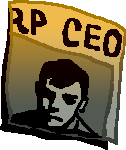
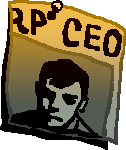
Edges shown as owned in private view and have different art

Changed region(s): [[0.3571, 0.0, 0.5, 0.1333]]

diff --git a/UnityProject/Assets/Graph/Highlightable.cs b/UnityProject/Assets/Graph/Highlightable.cs
@@ -1,21 +1,23 @@
 using UnityEngine;
 using System.Collections;
 using System;
+using Assets.Player;
 
-public class Highlightable : MonoBehaviour {
+public abstract class Highlightable : MonoBehaviour {
 	
-	public Sprite highlightSprite;
+	public Sprite normalSprite, highlightSprite, ownedNormalSprite, ownedHighlightSprite;
     public delegate void OnClickHandler();
     public event OnClickHandler OnClicked;
 
-	protected Sprite normalSprite;
 	private SpriteRenderer spriteRenderer;
 	private bool isHighlighted = false;
+	private Sprite curNormal, curHighlight;
 
 	// Use this for initialization
 	protected virtual void Start () {
-		spriteRenderer = this.gameObject.GetComponent<SpriteRenderer>();
-		normalSprite = spriteRenderer.sprite;
+		spriteRenderer = gameObject.GetComponent<SpriteRenderer>();
+		VisibilityController.instance.VisibilityChanged += new VisibilityController.VisibilityChangeHandler(updateVisibility);
+		updateSprites();
 	}
 	
 	// Update is called once per frame
@@ -24,31 +26,35 @@ public class Highlightable : MonoBehaviour {
 	}
 
 	public void setNormalSprite(Sprite newNormal) {
-		normalSprite = newNormal;
-		if (!isHighlighted) {
-			setUnhighlighted();
-		}
+		curNormal = newNormal;
+		setHighlighted(isHighlighted);
 	}
 
 	public void setHighlightedSprite(Sprite newHighlight) {
-		highlightSprite = newHighlight;
-		if (isHighlighted) {
-			setHighlighted();
-		}
+		curHighlight = newHighlight;
+		setHighlighted(isHighlighted);
 	}
 	
-	public void setHighlighted() {
-		isHighlighted = true;
-		spriteRenderer.sprite = highlightSprite;
-	}
-	
-	public void setUnhighlighted() {
-		isHighlighted = false;
-		spriteRenderer.sprite = normalSprite;
+	public void setHighlighted(bool isHighlighted) {
+		this.isHighlighted = isHighlighted;
+		spriteRenderer.sprite = isHighlighted ? curHighlight : curNormal;
 	}
 
     void OnMouseUpAsButton()
     {
         if (OnClicked != null) OnClicked();
     }
+
+	
+	public void updateSprites() {
+		updateVisibility(VisibilityController.instance.visibility);
+	}
+	
+	private void updateVisibility(VisibilityController.Visibility vis) {
+		bool owned = viewAsOwned(vis);
+		setNormalSprite(owned ? ownedNormalSprite : normalSprite);
+		setHighlightedSprite(owned ? ownedHighlightSprite : highlightSprite);
+	}
+
+	public abstract bool viewAsOwned(VisibilityController.Visibility visibility);
 }

diff --git a/UnityProject/Assets/Graph/Nodes/NodeData.cs b/UnityProject/Assets/Graph/Nodes/NodeData.cs
@@ -4,10 +4,7 @@ using Assets.Player;
 
 public class NodeData : Highlightable {
 
-	public Sprite playerOwnedNormal, playerOwnedHighlight;
 	public PlayerData startingOwner;
-
-	private Sprite unownedNormal, unownedHighlight;
 
 	private PlayerData owner;
 	public PlayerData Owner {
@@ -27,10 +24,7 @@ public class NodeData : Highlightable {
 	// Use this for initialization
 	protected override void Start () {
 		base.Start();
-		unownedNormal = normalSprite;
-		unownedHighlight = highlightSprite;
 		Owner = startingOwner;
-		VisibilityController.instance.VisibilityChanged += new VisibilityController.VisibilityChangeHandler(updateVisibility);
 	}
 	
 	// Update is called once per frame
@@ -45,15 +39,28 @@ public class NodeData : Highlightable {
 		}
 	}
 
-	public void updateSprites() {
-		updateVisibility(VisibilityController.instance.visibility);
+	public int getAttack(DominationType type) {
+		AttackSkill[] skills = gameObject.GetComponents<AttackSkill>();
+		foreach (AttackSkill a in skills) {
+			if (a.type == type) {
+				return a.value;
+			}
+		}
+		return 0;
 	}
 
-	private void updateVisibility(VisibilityController.Visibility vis) {
+	public int getDefense(DominationType type) {
+		DefenseSkill[] skills = gameObject.GetComponents<DefenseSkill>();
+		foreach (DefenseSkill d in skills) {
+			if (d.type == type) {
+				return d.value;
+			}
+		}
+		return 0;
+	}
+
+	override public bool viewAsOwned(VisibilityController.Visibility vis) {
 		bool isPrivate = vis == VisibilityController.Visibility.Private;
-		bool viewAsOwned = isPrivate && owner == TurnController.instance.CurrentPlayer;
-		
-		setNormalSprite(viewAsOwned ? playerOwnedNormal : unownedNormal);
-		setHighlightedSprite(viewAsOwned ? playerOwnedHighlight : unownedHighlight);
+		return isPrivate && owner == TurnController.instance.CurrentPlayer;
 	}
 }

diff --git a/UnityProject/Assets/Player/ActionController.cs b/UnityProject/Assets/Player/ActionController.cs
@@ -26,7 +26,7 @@ namespace Assets.Player
             {
                 List<Highlightable> possibleTargets = selected.getPossibleTargets();
                 //highlight the possible targets
-                possibleTargets.ForEach((x) => x.setHighlighted());
+                possibleTargets.ForEach((x) => x.setHighlighted(true));
 
                 //attach event handlers to the possible targets so they're selected when they're clicked
                 possibleTargets.ForEach((x) => { clickHandlers[x] = () => scheduleAction(selected, x); x.OnClicked += clickHandlers[x]; });
@@ -46,7 +46,7 @@ namespace Assets.Player
             //the other targets should not be highlighted now
             foreach (Highlightable noLongerATarget in toSchedule.getPossibleTargets())
             {
-                noLongerATarget.setUnhighlighted();
+                noLongerATarget.setHighlighted(false);
                 noLongerATarget.OnClicked -= clickHandlers[noLongerATarget];
             }
 
@@ -73,7 +73,7 @@ namespace Assets.Player
 				// Clicked on something else with action selected -- cancel selection
 				foreach (Highlightable noLongerATarget in selected.getPossibleTargets())
 				{
-					noLongerATarget.setUnhighlighted();
+					noLongerATarget.setHighlighted(false);
 					noLongerATarget.OnClicked -= clickHandlers[noLongerATarget];
 				}
 				

diff --git a/UnityProject/Assets/Graph/Nodes/AttackAction.cs b/UnityProject/Assets/Graph/Nodes/AttackAction.cs
@@ -49,36 +49,21 @@ public class AttackAction : Action {
 		connection.triggerEdge(0.5f);
 
 		// Find attacker attack score and defender defense score
-		DefenseSkill[] targetDefenses = target.gameObject.GetComponents<DefenseSkill>();
-		DefenseSkill targetDefense = null;
-		foreach (DefenseSkill d in targetDefenses) {
-			if (d.type == attackType) {
-				targetDefense = d;
-				break;
-			}
-		}
-
-		AttackSkill[] attacks = gameObject.GetComponents<AttackSkill>();
-		AttackSkill attack = null;
-		foreach (AttackSkill a in attacks) {
-			if (a.type == attackType) {
-				attack = a;
-				break;
-			}
-		}
+		int targetDefense = otherNode.getDefense(attackType);
+		int attack = thisNode.getDefense(attackType);
 		
-		int min = targetDefense.value / 2;
-		int max = targetDefense.value * 2;
+		int min = targetDefense / 2;
+		int max = targetDefense * 2;
 
 		// Determine if node is captured
 		bool doCapture = false;
 
-		if (attack.value <= min) {
+		if (attack <= min) {
 			doCapture = false;
-		} else if (attack.value >= max) {
+		} else if (attack >= max) {
 			doCapture = true;
 		} else {
-			double probability = ((double) (attack.value - min)) / ((double) (max - min));
+			double probability = ((double) (attack - min)) / ((double) (max - min));
 			doCapture = gen.NextDouble() <= probability;
 		}
 		

diff --git a/UnityProject/Assets/Graph/Nodes/NodeStatMenu.cs b/UnityProject/Assets/Graph/Nodes/NodeStatMenu.cs
@@ -5,9 +5,11 @@ public class NodeStatMenu : MonoBehaviour {
 
 	public GameObject menuBackground;
 
+	private bool isShown = false;
+
 	// Use this for initialization
 	void Start () {
-	
+
 	}
 	
 	// Update is called once per frame
@@ -17,11 +19,27 @@ public class NodeStatMenu : MonoBehaviour {
 
 	void OnMouseEnter() {
 		if (menuBackground) {
-
+			// Display menu background
 		}
+		isShown = true;
 	}
 
 	void OnMouseExit() {
+		if (menuBackground) {
+			// Hide menu background
+		}
+		isShown = false;
+	}
 
+	void OnGUI() {
+		if (isShown) {
+			NodeData data = gameObject.GetComponent<NodeData>();
+			string text = "\t\tAttack\tDefense\n" +
+					"Bribe\t\t\t" + data.getAttack(DominationType.Bribe) + "\t" + data.getDefense(DominationType.Bribe) + "\n" +
+					"Blackmail\t" + data.getAttack(DominationType.Blackmail) + "\t" + data.getDefense(DominationType.Blackmail) + "\n" +
+					"Threaten\t" + data.getAttack(DominationType.Threaten) + "\t" + data.getDefense(DominationType.Threaten) + "\n";
+				
+			GUI.Label(new Rect(transform.position.x + 0.7f, transform.position.y + 0.2f, 300, 100), text);
+		}
 	}
 }

diff --git a/UnityProject/Assets/Graph/Edges/EdgeData.cs b/UnityProject/Assets/Graph/Edges/EdgeData.cs
@@ -68,5 +68,16 @@ public class EdgeData : Highlightable {
     void OnGUI()
     {
         if(displayVisibility) GUI.Label(new Rect(500, 0, 100, 20), "Visibility: " + Visibility);
-    }
+	}
+	
+	override public bool viewAsOwned(VisibilityController.Visibility vis) {
+		bool isPrivate = vis == VisibilityController.Visibility.Private;
+		bool isOwned = direction != EdgeDirection.Neutral;
+
+		if (isPrivate && isOwned) {
+			return nodeOne.GetComponent<NodeData>().Owner == TurnController.instance.CurrentPlayer;
+		}
+
+		return false;
+	}
 }

diff --git a/UnityProject/Assets/Graph/Nodes/NodeMenu.cs b/UnityProject/Assets/Graph/Nodes/NodeMenu.cs
@@ -28,7 +28,6 @@ public class NodeMenu : MonoBehaviour {
 			
 			GameObject realButton = (GameObject) Instantiate(button, transform.position + offset, Quaternion.identity);
 			realButton.transform.parent = this.gameObject.transform;
-			realButton.GetComponent<ActionButton>().setMenu(this);
 
             ActionController actionController = FindObjectOfType<ActionController>();
             realButton.GetComponent<ActionButton>().OnClick += () => actionController.selectAction(a);

diff --git a/UnityProject/Assets/Graph/Nodes/ActionButton.cs b/UnityProject/Assets/Graph/Nodes/ActionButton.cs
@@ -8,12 +8,6 @@ public class ActionButton : MonoBehaviour {
 
 	public Sprite normal, hover, selected;
 
-	private NodeMenu menu;
-
-	public void setMenu(NodeMenu menu) {
-		this.menu = menu;
-	}
-
 	// Use this for initialization
 	void Start () {
 		this.gameObject.GetComponent<SpriteRenderer>().sprite = normal;
